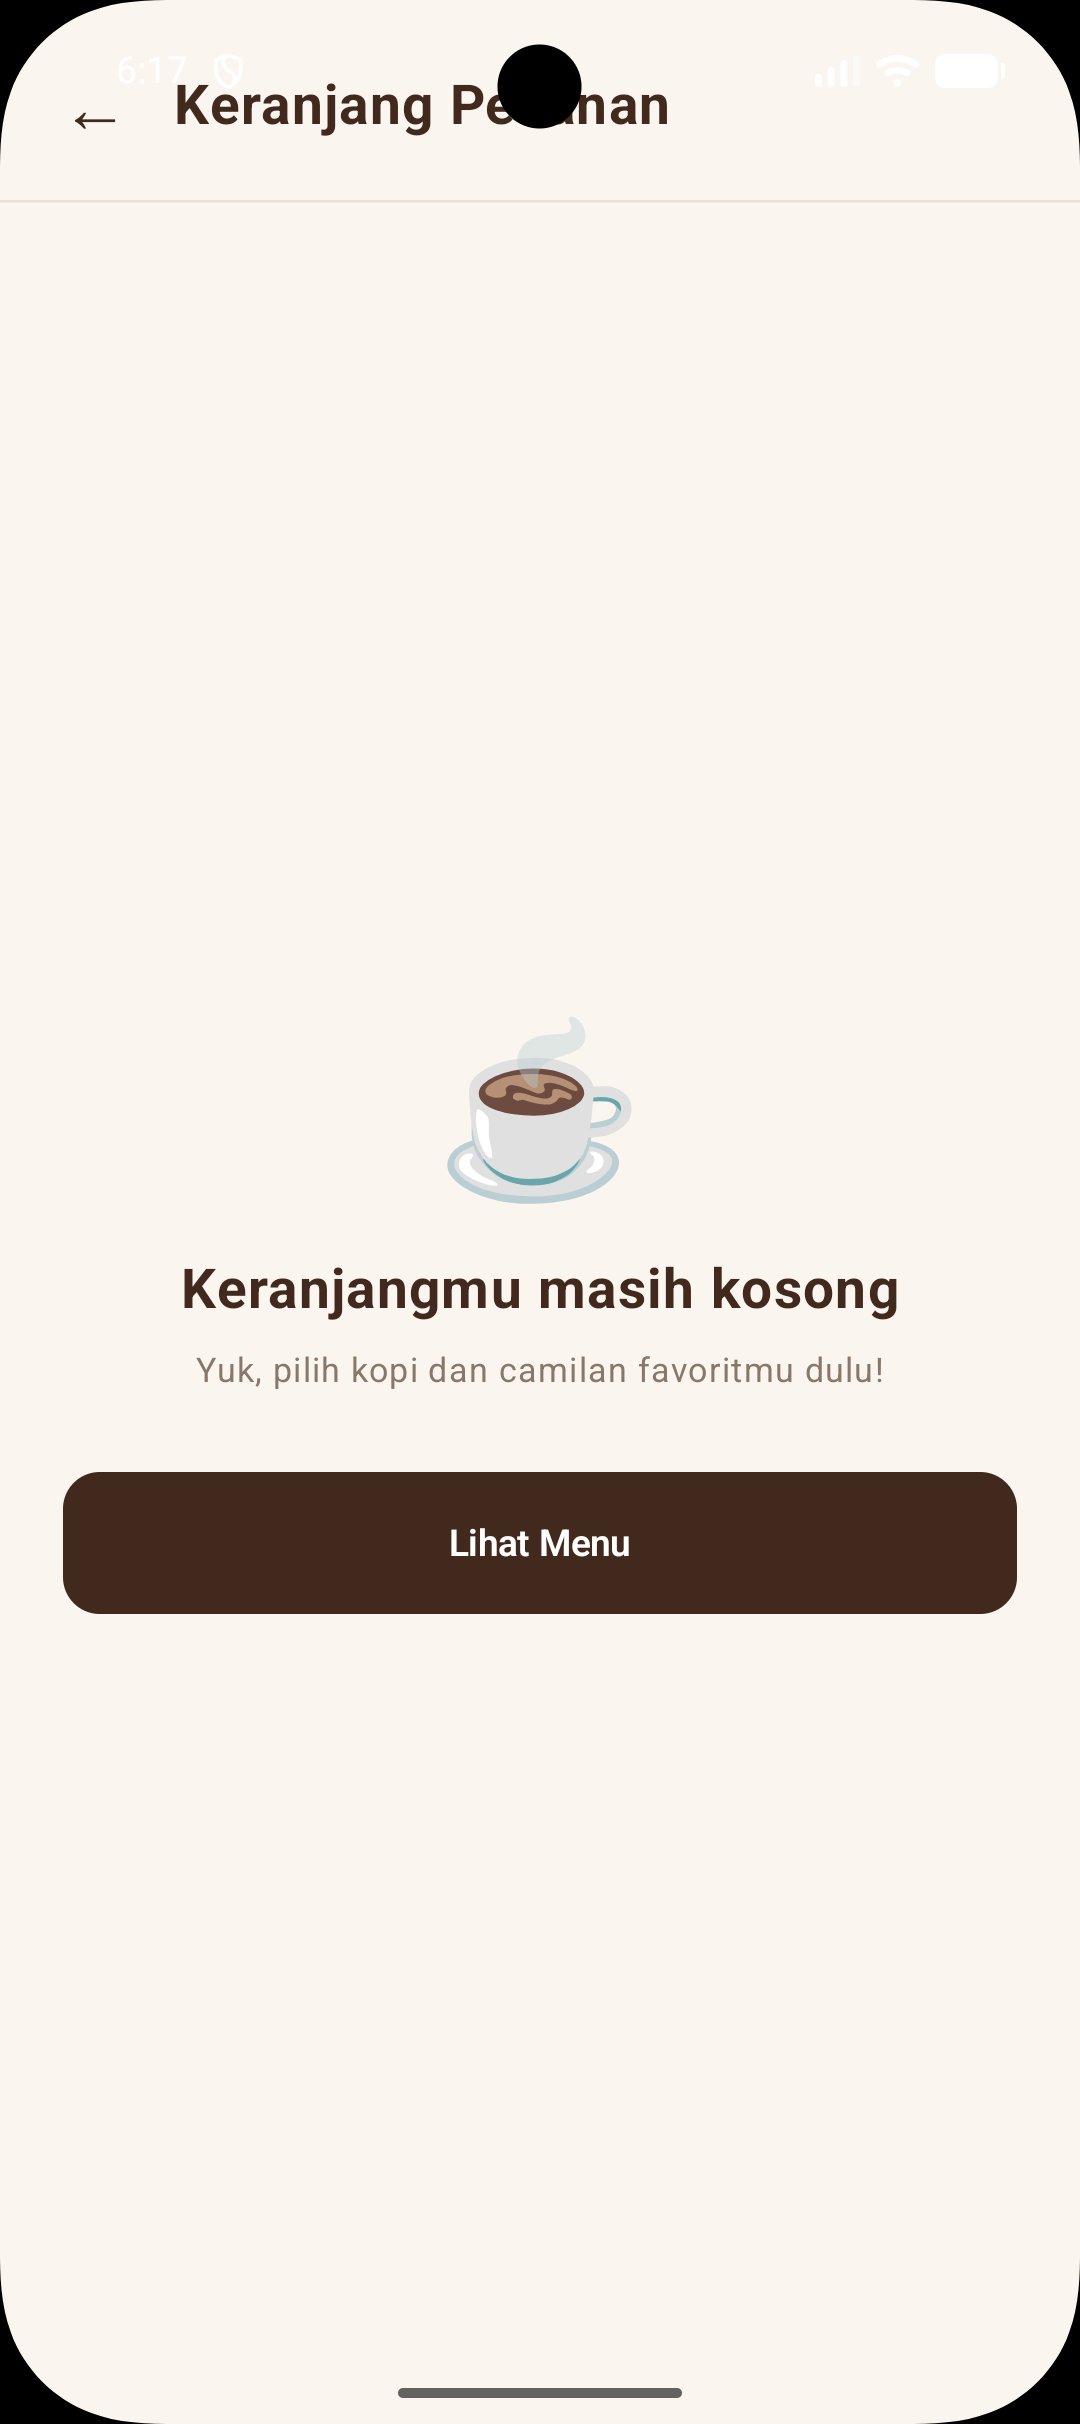
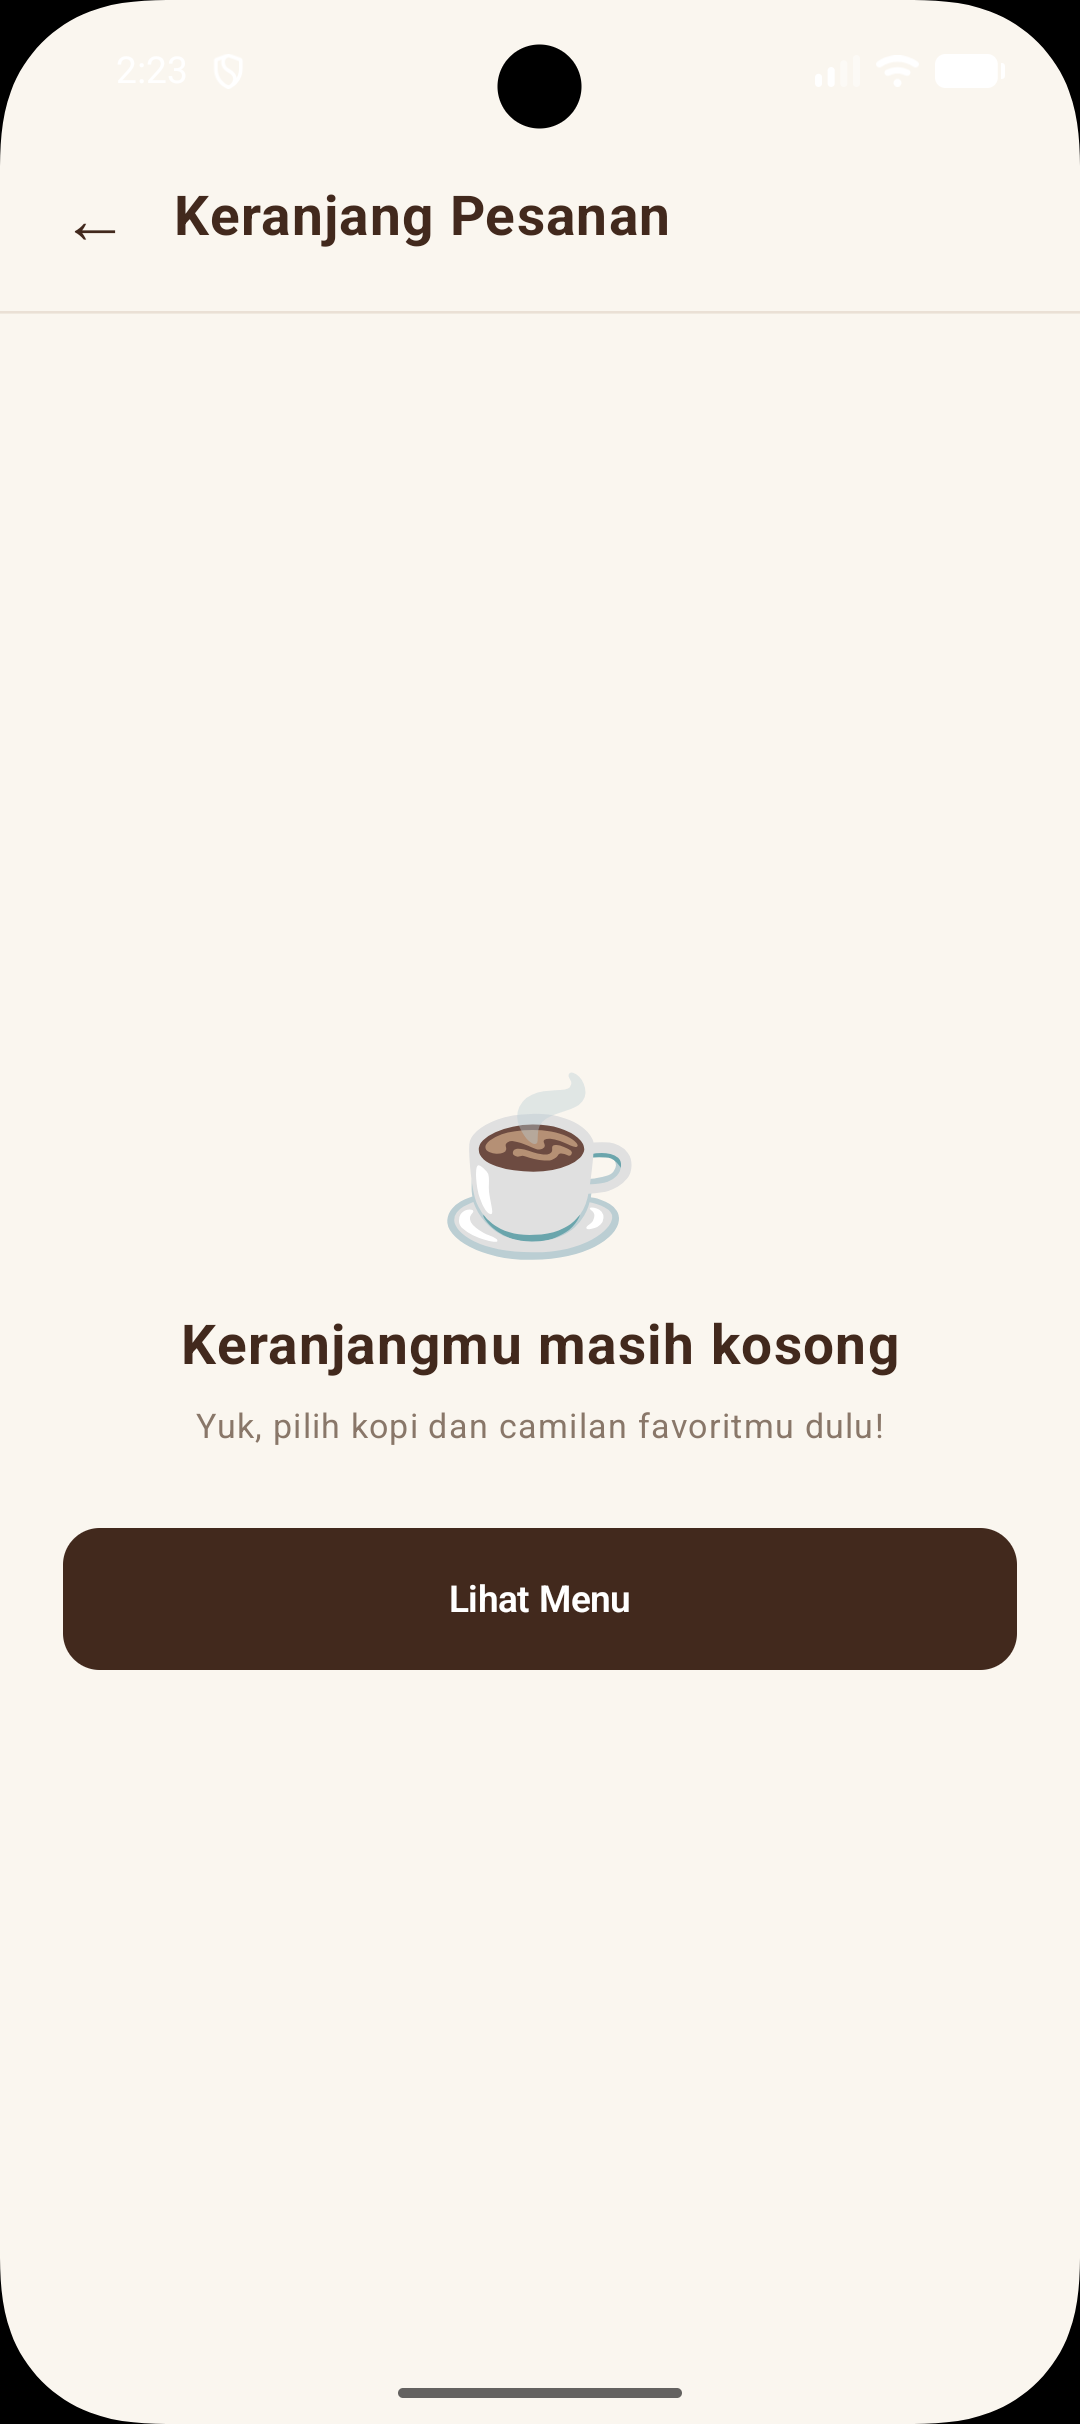
update screenshoot and improve screens

Changed region(s): [[0.0611, 0.4022, 0.9472, 0.7116], [0.1528, 0.0309, 0.6111, 0.1238]]

diff --git a/app/src/main/java/lat/pam/kopidannyemil/screens/ProfileScreen.kt b/app/src/main/java/lat/pam/kopidannyemil/screens/ProfileScreen.kt
@@ -1,6 +1,8 @@
 package lat.pam.kopidannyemil.screens
 
+import android.graphics.BitmapFactory
 import android.net.Uri
+
 import androidx.activity.compose.rememberLauncherForActivityResult
 import androidx.activity.result.contract.ActivityResultContracts
 import androidx.compose.foundation.Image
@@ -8,9 +10,8 @@ import androidx.compose.foundation.background
 import androidx.compose.foundation.clickable
 import androidx.compose.foundation.layout.*
 import androidx.compose.foundation.rememberScrollState
-import androidx.compose.foundation.verticalScroll
 import androidx.compose.foundation.shape.CircleShape
-import androidx.compose.foundation.shape.RoundedCornerShape
+import androidx.compose.foundation.verticalScroll
 import androidx.compose.material3.*
 import androidx.compose.runtime.*
 import androidx.compose.ui.Alignment
@@ -25,7 +26,6 @@ import androidx.compose.ui.text.style.TextAlign
 import androidx.compose.ui.tooling.preview.Preview
 import androidx.compose.ui.unit.dp
 import androidx.compose.ui.unit.sp
-import android.graphics.BitmapFactory
 
 import lat.pam.kopidannyemil.components.CoffeeButton
 import lat.pam.kopidannyemil.components.CoffeeTextField
@@ -51,7 +51,7 @@ fun ProfileScreen(
         mutableStateOf("")
     }
 
-    // BUKA GALERI MENGGUNAKAN PHOTO PICKER
+    // Pilih foto dari galeri
     val photoPicker = rememberLauncherForActivityResult(
         contract = ActivityResultContracts.GetContent()
     ) { uri ->
@@ -60,7 +60,7 @@ fun ProfileScreen(
         }
     }
 
-    // MEMBACA FOTO YANG DIPILIH
+    // Membaca foto yang dipilih
     val photoBitmap = remember(photoUri) {
         photoUri?.let { uri ->
             try {
@@ -77,14 +77,13 @@ fun ProfileScreen(
         modifier = Modifier
             .fillMaxSize()
             .background(Cream)
+            .statusBarsPadding()
             .verticalScroll(rememberScrollState())
             .padding(horizontal = 26.dp),
         horizontalAlignment = Alignment.CenterHorizontally
     ) {
 
-        Spacer(modifier = Modifier.height(20.dp))
-
-        // HEADER
+        // Header
         Row(
             modifier = Modifier.fillMaxWidth(),
             verticalAlignment = Alignment.CenterVertically
@@ -111,12 +110,11 @@ fun ProfileScreen(
 
         Spacer(modifier = Modifier.height(35.dp))
 
-        // FOTO PROFIL + TOMBOL KAMERA
+        // Foto profil
         Box(
             modifier = Modifier.size(124.dp),
             contentAlignment = Alignment.Center
         ) {
-
             Box(
                 modifier = Modifier
                     .size(112.dp)
@@ -127,7 +125,6 @@ fun ProfileScreen(
                     },
                 contentAlignment = Alignment.Center
             ) {
-
                 if (photoBitmap != null) {
                     Image(
                         bitmap = photoBitmap,
@@ -136,7 +133,6 @@ fun ProfileScreen(
                         contentScale = ContentScale.Crop
                     )
                 } else {
-                    // AVATAR DEFAULT SEBELUM MEMILIH FOTO
                     Text(
                         text = name
                             .trim()
@@ -154,7 +150,7 @@ fun ProfileScreen(
                 }
             }
 
-            // IKON KAMERA
+            // Tombol ganti foto
             Box(
                 modifier = Modifier
                     .align(Alignment.BottomEnd)
@@ -207,6 +203,7 @@ fun ProfileScreen(
 
         Spacer(modifier = Modifier.height(25.dp))
 
+        // Informasi profil
         Text(
             text = "Informasi Profil",
             modifier = Modifier.fillMaxWidth(),
@@ -247,6 +244,7 @@ fun ProfileScreen(
 
         Spacer(modifier = Modifier.height(28.dp))
 
+        // Simpan perubahan
         CoffeeButton(
             text = "Simpan Perubahan",
             onClick = {
@@ -275,6 +273,7 @@ fun ProfileScreen(
 
         Spacer(modifier = Modifier.height(18.dp))
 
+        // Logout
         TextButton(onClick = onLogout) {
             Text(
                 text = "Keluar dari Akun",
@@ -298,7 +297,7 @@ fun ProfileScreenPreview() {
     MaterialTheme {
         ProfileScreen(
             name = "Naila Aghna Auliya P",
-            username = "naila.aghn ap".replace(" ", ""),
+            username = "naila.aghnap",
             photoUri = null,
             onPhotoChange = {},
             onSave = {},

diff --git a/app/src/main/java/lat/pam/kopidannyemil/screens/KeranjangScreen.kt b/app/src/main/java/lat/pam/kopidannyemil/screens/KeranjangScreen.kt
@@ -29,8 +29,6 @@ private fun hargaRupiah(price: Int): String {
     return "Rp " + "%,d".format(price).replace(',', '.')
 }
 
-// HALAMAN KERANJANG
-
 @Composable
 fun KeranjangScreen(
     quantities: Map<Int, Int>,
@@ -53,16 +51,17 @@ fun KeranjangScreen(
         modifier = Modifier
             .fillMaxSize()
             .background(Cream)
+            .statusBarsPadding()
     ) {
 
-        // HEADER
+        // Header
         Row(
             modifier = Modifier
                 .fillMaxWidth()
                 .padding(
                     start = 12.dp,
                     end = 24.dp,
-                    top = 16.dp,
+                    top = 4.dp,
                     bottom = 12.dp
                 ),
             verticalAlignment = Alignment.CenterVertically
@@ -91,7 +90,7 @@ fun KeranjangScreen(
 
         if (selectedProducts.isEmpty()) {
 
-            // KERANJANG KOSONG
+            // Keranjang kosong
             Column(
                 modifier = Modifier
                     .weight(1f)
@@ -133,7 +132,7 @@ fun KeranjangScreen(
 
         } else {
 
-            // DAFTAR PRODUK DIPILIH
+            // Daftar produk yang dipilih
             LazyColumn(
                 modifier = Modifier.weight(1f),
                 contentPadding = PaddingValues(
@@ -165,7 +164,7 @@ fun KeranjangScreen(
                 }
             }
 
-            // RINGKASAN PEMBAYARAN
+            // Ringkasan pesanan
             Column(
                 modifier = Modifier
                     .fillMaxWidth()
@@ -239,8 +238,6 @@ fun KeranjangScreen(
     }
 }
 
-// KARTU PRODUK KERANJANG
-
 @Composable
 private fun KeranjangProductCard(
     product: Product,
@@ -262,7 +259,6 @@ private fun KeranjangProductCard(
             modifier = Modifier.padding(12.dp),
             verticalAlignment = Alignment.CenterVertically
         ) {
-
             Image(
                 painter = painterResource(product.image),
                 contentDescription = product.name,
@@ -299,7 +295,6 @@ private fun KeranjangProductCard(
                 Row(
                     verticalAlignment = Alignment.CenterVertically
                 ) {
-
                     ButtonJumlah(
                         symbol = "−",
                         filled = false,
@@ -326,8 +321,6 @@ private fun KeranjangProductCard(
         }
     }
 }
-
-// TOMBOL JUMLAH PRODUK
 
 @Composable
 private fun ButtonJumlah(
@@ -359,8 +352,6 @@ private fun ButtonJumlah(
         )
     }
 }
-
-// PREVIEW
 
 @Preview(
     name = "Keranjang Pesanan",

diff --git a/app/src/main/java/lat/pam/kopidannyemil/screens/AlamatScreen.kt b/app/src/main/java/lat/pam/kopidannyemil/screens/AlamatScreen.kt
@@ -2,6 +2,7 @@ package lat.pam.kopidannyemil.screens
 
 import androidx.compose.foundation.background
 import androidx.compose.foundation.layout.*
+import androidx.compose.foundation.layout.statusBarsPadding
 import androidx.compose.foundation.rememberScrollState
 import androidx.compose.foundation.verticalScroll
 import androidx.compose.foundation.shape.RoundedCornerShape
@@ -56,6 +57,7 @@ fun AlamatScreen(
         modifier = Modifier
             .fillMaxSize()
             .background(Cream)
+            .statusBarsPadding()
             .verticalScroll(rememberScrollState())
             .padding(horizontal = 24.dp)
     ) {
